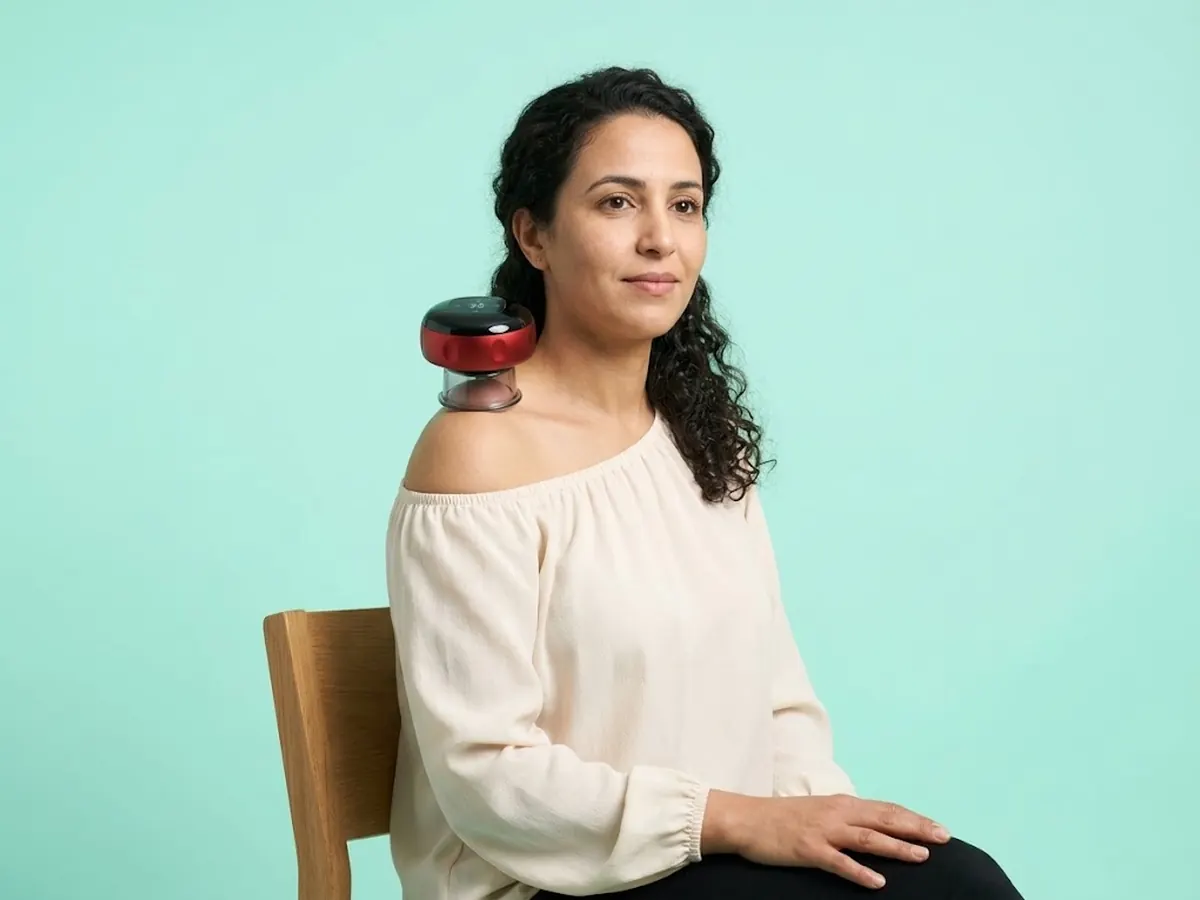
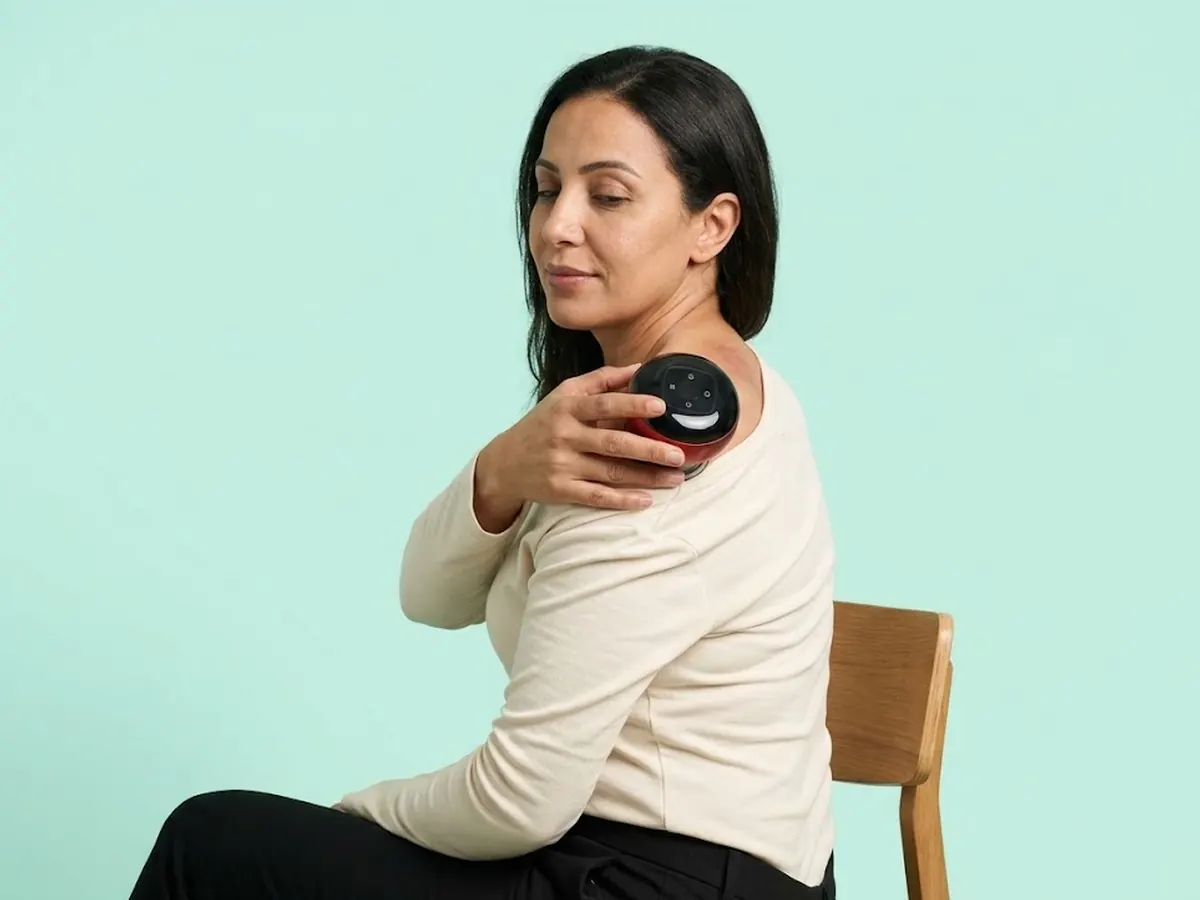
Finish the homepage photo set with the three-SKU still-life, a documentary COD unboxing, and a clearer Calma card.

diff --git a/frontend/src/data/images.ts b/frontend/src/data/images.ts
@@ -25,12 +25,11 @@ export const IMAGES = {
   home: {
     struggle: "/images/home-section-1.webp",
     compare: "/images/home-section-2.svg",
-    /** Homepage unboxing — replace with /images/about-guarantee.webp when ready. */
-    unboxing: "/images/about-trust.svg",
+    unboxing: "/images/about-unbox.webp",
   },
   about: {
     hub: "/images/about-hub.svg",
-    pillars: "/images/about-pillars.svg",
+    pillars: "/images/about-pillars.webp",
     trust: "/images/about-trust.svg",
   },
   ugc: ["/images/ugc-1.svg", "/images/ugc-2.svg", "/images/ugc-3.svg"],
@@ -41,7 +40,7 @@ export const IMAGES = {
   products: {
     "kenidoux-lumba": set("lumba"),
     "kenidoux-posta": { ...set("posta"), main: "/images/posta/office.webp" },
-    "kenidoux-calma": set("calma"),
+    "kenidoux-calma": { ...set("calma"), main: "/images/calma/studio.webp" },
   } as Record<string, ProductImageSet>,
 };
 
